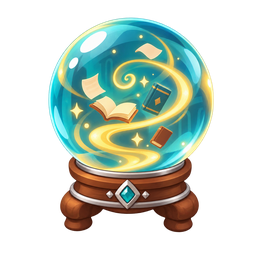
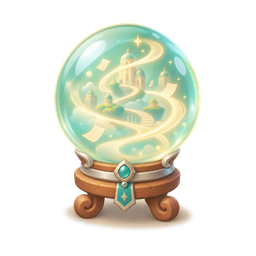
art: 风格v3.1软渐变休闲卡通——参考图拼图对比找出三病根（粗描边/硬赛璐璐/高饱和低明度），全类样张重生成并逐张对比验收

diff --git a/.agents/skills/mh-art/scripts/gen_asset.py b/.agents/skills/mh-art/scripts/gen_asset.py
@@ -37,76 +37,81 @@ ARCHIVE_ROOT = os.path.join(REVIEW_ROOT, "_archived")
 ASSETS_ROOT = os.path.join("docs", "design", "assets")
 
 # ---- 项目规格表（与 SKILL.md 保持同步）----
-# 风格 v3（2026-08-25，已拍板）：v1 暗黑厚涂（"过于硬核"）、v2/v2.1 温暖绘本水彩
-# （"还是不太行"）相继被否决。用户给出参照：Unity Asset Store「2D Characters -
-# Casual Monsters」(LAYERLAB)——扁平休闲卡通：干净矢量感圆胖轮廓、无描边、双色阶
-# 阴影（底色+一层暗部）、Q 版大头比例、中饱和青绿/奶油/暖棕系、无纹理无笔触。
-# 记忆殿堂主题与功能色板（卡牌类型/状态/意图/稀有度）保留，渲染语言从"绘本水彩"
-# 整体切到"扁平卡通"。基础 UI 色已随 v3 调亮（见 10-UI美术资源规格 §1.1 v1.3）。
-STYLE_BASE = ("flat cartoon casual mobile-game art, clean rounded vector-style shapes, cute chibi "
-              "proportions, flat color fills with simple two-tone shading (one soft darker shade "
-              "under each shape), no outlines, smooth clean matte finish, moderately saturated "
-              "cozy palette of teal, cream and warm brown with antique-gold accents, memory-palace "
-              "scholar library fantasy theme, friendly playful casual mood, "
-              "no painterly brushwork, no watercolor, no storybook wash, no texture noise, "
-              "no realistic rendering, no dark hardcore mood")
+# 风格 v3.1（2026-08-25，已拍板）：v1 暗黑厚涂、v2/v2.1 温暖绘本水彩相继被否决；
+# v3 扁平卡通首批样张被指"人物和卡牌不像"（参照 Unity Asset Store「2D Characters -
+# Casual Monsters」LAYERLAB）。与参考图逐项对比后修正三处病根：①v3 生成带粗深描边
+# →参考无描边，靠柔和暗部分界；②v3 硬边两色阶赛璐璐→参考是柔和渐变+浅椭圆投影
+# （软笔刷体积感，2-3 个明度）；③v3 饱和度高明度低→参考中饱和、高明度、清新淡彩。
+# 造型基准：2-2.5 头身、豆形身体、短粗四肢、极简面部。功能色板保留。
+STYLE_BASE = ("smooth soft-shaded 2D cartoon game art like premium casual mobile-game asset packs, "
+              "clean rounded shapes with NO outline strokes (edges separated by soft shading only), "
+              "soft airbrushed gradients giving gentle rounded volume, subtle ambient occlusion, "
+              "2-3 soft value steps per shape, soft elliptical drop shadow under objects, "
+              "fresh airy palette: pastel mint-teal, cream and light warm brown with muted gold accents, "
+              "medium saturation and light values, low contrast, memory-palace scholar fantasy theme, "
+              "cute friendly casual mood, "
+              "no outlines, no cel-shaded hard shadow edges, no watercolor, no painterly texture, "
+              "no gritty texture, no realistic rendering, no dark heavy colors, no hardcore mood")
 
 # 发布目录（实际应用区）：扁平无子目录——文件名自带类别前缀（prefix 字段），
 # 发布时按前缀校验命名规范；仅 docs 文档仓库适用，勿再按类型嵌套。
 SPECS = {
     "card": dict(size="1024x1536", transparent=False, resize=None,
                  review="cards", prefix="card_",
-                 style="vertical card illustration for a casual mobile game, one cute clear focal "
-                       "subject drawn large, simple flat background shapes, soft round shadow "
-                       "under the subject, no text, no watermark"),
+                 style="vertical card illustration presented like a game-asset showcase: one cute "
+                       "clear focal subject standing centered on a simple soft ground, plain "
+                       "pastel mint-cream backdrop with a soft elliptical shadow under the subject, "
+                       "minimal simple props, lots of clean empty space, no text, no watermark"),
     "cardback": dict(size="1024x1536", transparent=False, resize=None,
                      review="cardbacks", prefix="cardback_",
                      style="full playing-card back design filling the whole canvas, symmetric cute "
-                           "flat-cartoon emblem at center, chunky rounded border with simple "
-                           "geometric ornaments, flat color field with a very subtle radial glow "
-                           "behind the emblem, clean casual style, no text, no watermark"),
+                           "emblem at center drawn with smooth soft shading and no outlines, chunky "
+                           "rounded border with simple rounded ornaments, soft gradient color field, "
+                           "clean smooth finish, no text, no watermark"),
     "icon": dict(size="1024x1024", transparent=True, resize="256x256",
                  review="icons", prefix="icon_",
-                 style="flat casual game icon, centered composition, thick rounded chunky silhouette, "
-                       "instantly readable at small size, one accent color with a single soft "
-                       "darker shade, plain transparent background, no text, no watermark"),
+                 style="smooth soft-shaded casual game icon, single object only, centered, bold rounded "
+                       "silhouette instantly readable at small size, soft gradient shading, plain "
+                       "transparent background, no text, no watermark"),
     "relic": dict(size="1024x1024", transparent=True, resize="256x256",
                   review="relics", prefix="relic_",
-                  style="flat casual game icon of a small magical artifact, centered, cute stylized "
-                        "prop with thick rounded chunky silhouette, one soft darker shade for "
-                        "depth, plain transparent background, no text, no watermark"),
+                  style="smooth soft-shaded casual game icon of a single small magical artifact, "
+                        "centered, cute stylized prop with bold rounded silhouette, soft gradient "
+                        "shading, no outlines, plain transparent background, no text, no watermark"),
     "potion": dict(size="1024x1024", transparent=True, resize="256x256",
                    review="potions", prefix="potion_",
-                   style="flat casual game icon of a cute alchemy potion bottle, centered, thick "
-                         "rounded chunky silhouette, glossy flat liquid color, plain transparent "
-                         "background, no text, no watermark"),
+                   style="smooth soft-shaded casual game icon of a single cute alchemy potion bottle, "
+                         "centered, bold rounded silhouette, soft glossy gradient shading, no "
+                         "outlines, plain transparent background, no text, no watermark"),
     "node": dict(size="1024x1024", transparent=True, resize="256x256",
                  review="map-nodes", prefix="node_",
-                    style="flat casual map node emblem, centered, thick rounded chunky shape, "
-                          "bold readable silhouette, plain transparent background, "
-                          "no text, no watermark"),
+                    style="smooth soft-shaded casual map node emblem, single centered object, bold "
+                          "rounded shape, soft gradient shading, no outlines, plain transparent "
+                          "background, no text, no watermark"),
     "enemy": dict(size="1024x1024", transparent=True, resize=None,
                   review="enemies", prefix="enemy_",
-                  style="single cute casual-cartoon fantasy monster, full body, centered, facing "
-                        "viewer, big-head chibi proportions, chunky rounded silhouette, friendly "
-                        "mischievous expression, flat two-tone shading, soft round shadow under "
-                        "feet, transparent background, no text, no watermark"),
+                  style="single cute casual-cartoon fantasy monster like a premium asset-pack "
+                        "showcase render, full body, centered, facing viewer, 2 to 2.5 head-heights "
+                        "tall, bean-shaped rounded body, short stubby limbs, very simple face, "
+                        "smooth soft-shaded volume with NO outlines, soft elliptical shadow under "
+                        "feet, plain transparent background, no text, no watermark"),
     "portrait": dict(size="1024x1536", transparent=True, resize=None,
                      review="portraits", prefix="portrait_",
-                     style="full body cute casual-cartoon character, centered, facing viewer, "
-                           "big-head chibi proportions, friendly confident pose, chunky rounded "
-                           "silhouette, flat two-tone shading, transparent background, "
+                     style="full body cute casual-cartoon character like a premium asset-pack "
+                           "showcase render, centered, facing viewer, 2 to 2.5 head-heights tall, "
+                           "bean-shaped rounded body, short stubby limbs, very simple face, smooth "
+                           "soft-shaded volume with NO outlines, transparent background, "
                            "no text, no watermark"),
     "background": dict(size="2048x1152", transparent=False, resize="1920x1080",
                        review="backgrounds", prefix="bg_",
-                       style="wide flat cartoon scene for a casual game, simple stylized "
-                             "environment built from rounded shapes, layered flat colors for "
-                             "gentle depth, empty center area for UI, no characters, no text, "
-                             "no watermark"),
+                       style="wide soft-shaded cartoon scene for a casual game, simple stylized "
+                             "environment built from big rounded shapes with smooth soft gradients, "
+                             "fresh airy palette, gentle depth, empty center area for UI, "
+                             "no characters, no text, no watermark"),
     "texture": dict(size="1024x1024", transparent=False, resize="256x256",
                     review="textures", prefix="texture_",
-                    style="seamless tileable flat cartoon texture, evenly lit flat colors, "
-                          "no vignette, no shadows at edges, no text, no watermark"),
+                    style="seamless tileable soft cartoon texture, evenly lit, no vignette, "
+                          "no shadows at edges, no text, no watermark"),
 }
 
 

diff --git a/.agents/skills/mh-art/SKILL.md b/.agents/skills/mh-art/SKILL.md
@@ -50,16 +50,16 @@ description: 《记忆勇者》设计文档仓库专属 AI 生图——按 docs/
 
 源自 [09-UI设计规范 §1](../../../docs/design/09-UI设计规范.md)「记忆殿堂」视觉定位：记忆殿堂主题 + 古金点缀。所有 prompt 以此为底，保证新旧资产同风格。
 
-> **风格 v3（2026-08-25）**：v1 暗黑厚涂（"过于硬核"）与 v2/v2.1 温暖绘本水彩（"还是不太行"）相继被否决。用户给出参照：Unity Asset Store「2D Characters - Casual Monsters」(LAYERLAB)。v3 定调**扁平休闲卡通**——干净矢量感圆胖轮廓、无描边、双色阶阴影（底色+一层软暗部）、Q 版大头比例、中饱和青绿/奶油/暖棕系、无纹理无笔触。主题与卡牌类型/状态/意图/稀有度等功能色板不变，只换渲染语言。样张已拍板（2026-08-25），09 §1 视觉定位与 10 §1.1 基础 UI 色已同步改写为明快奶油纸/暖金木底（新增辅助强调静谧青 #7FB5AC）。
+> **风格 v3.1（2026-08-25）**：v1 暗黑厚涂、v2/v2.1 温暖绘本水彩相继被否决；v3 扁平卡通首批样张被指"风格还是不太像，尤其是人物和卡牌"（参照 Unity Asset Store「2D Characters - Casual Monsters」LAYERLAB）。将参考图与生成图**拼图逐项对比**后修正三处病根：①v3 生成带 3-6px 粗深描边 → 参考无描边，靠柔和暗部分界；②v3 硬边两色阶赛璐璐 → 参考是柔和渐变+浅椭圆投影（软笔刷体积感，2-3 个明度）；③v3 饱和度高明度低、浓郁厚重 → 参考中饱和、高明度、清新淡彩。造型基准：2-2.5 头身、豆形身体、短粗四肢、极简面部；卡面走"素材展示"构图（纯色淡青底+简单地面+柔和椭圆投影），不画叙事场景。功能色板保留；09/10 文档的明快 UI 色不受影响。
 
-- **全局基线（EN，拼在最前）**：`flat cartoon casual mobile-game art, clean rounded vector-style shapes, cute chibi proportions, flat color fills with simple two-tone shading (one soft darker shade under each shape), no outlines, smooth clean matte finish, moderately saturated cozy palette of teal, cream and warm brown with antique-gold accents, memory-palace scholar library fantasy theme, friendly playful casual mood, no painterly brushwork, no watercolor, no storybook wash, no texture noise, no realistic rendering, no dark hardcore mood`
-- **卡面**：`vertical card illustration for a casual mobile game, one cute clear focal subject drawn large, simple flat background shapes, soft round shadow under the subject, no text, no watermark`
-- **卡背**：`full playing-card back design filling the whole canvas, symmetric cute flat-cartoon emblem at center, chunky rounded border with simple geometric ornaments, flat color field with a very subtle radial glow behind the emblem, clean casual style, no text, no watermark`（desc 里必须给类型色 hex，见 asset-specs 色板）
-- **图标（icon/relic/potion/node）**：`flat casual game icon, centered composition, thick rounded chunky silhouette, instantly readable at small size, one accent color with a single soft darker shade, plain transparent background, no text, no watermark`
-- **敌人**：`single cute casual-cartoon fantasy monster, full body, centered, facing viewer, big-head chibi proportions, chunky rounded silhouette, friendly mischievous expression, flat two-tone shading, soft round shadow under feet, transparent background, no text, no watermark`
-- **角色**：`full body cute casual-cartoon character, centered, facing viewer, big-head chibi proportions, friendly confident pose, chunky rounded silhouette, flat two-tone shading, transparent background, no text, no watermark`
-- **背景**：`wide flat cartoon scene for a casual game, simple stylized environment built from rounded shapes, layered flat colors for gentle depth, empty center area for UI, no characters, no text, no watermark`
-- **纹理**：`seamless tileable flat cartoon texture, evenly lit flat colors, no vignette, no shadows at edges, no text`
+- **全局基线（EN，拼在最前）**：`smooth soft-shaded 2D cartoon game art like premium casual mobile-game asset packs, clean rounded shapes with NO outline strokes (edges separated by soft shading only), soft airbrushed gradients giving gentle rounded volume, subtle ambient occlusion, 2-3 soft value steps per shape, soft elliptical drop shadow under objects, fresh airy palette: pastel mint-teal, cream and light warm brown with muted gold accents, medium saturation and light values, low contrast, memory-palace scholar fantasy theme, cute friendly casual mood, no outlines, no cel-shaded hard shadow edges, no watercolor, no painterly texture, no gritty texture, no realistic rendering, no dark heavy colors, no hardcore mood`
+- **卡面**：`vertical card illustration presented like a game-asset showcase: one cute clear focal subject standing centered on a simple soft ground, plain pastel mint-cream backdrop with a soft elliptical shadow under the subject, minimal simple props, lots of clean empty space, no text, no watermark`
+- **卡背**：`full playing-card back design filling the whole canvas, symmetric cute emblem at center drawn with smooth soft shading and no outlines, chunky rounded border with simple rounded ornaments, soft gradient color field, clean smooth finish, no text, no watermark`（desc 里必须给类型色 hex，见 asset-specs 色板）
+- **图标（icon/relic/potion/node）**：`smooth soft-shaded casual game icon, single object only, centered, bold rounded silhouette instantly readable at small size, soft gradient shading, plain transparent background, no text, no watermark`
+- **敌人**：`single cute casual-cartoon fantasy monster like a premium asset-pack showcase render, full body, centered, facing viewer, 2 to 2.5 head-heights tall, bean-shaped rounded body, short stubby limbs, very simple face, smooth soft-shaded volume with NO outlines, soft elliptical shadow under feet, plain transparent background, no text, no watermark`
+- **角色**：`full body cute casual-cartoon character like a premium asset-pack showcase render, centered, facing viewer, 2 to 2.5 head-heights tall, bean-shaped rounded body, short stubby limbs, very simple face, smooth soft-shaded volume with NO outlines, transparent background, no text, no watermark`
+- **背景**：`wide soft-shaded cartoon scene for a casual game, simple stylized environment built from big rounded shapes with smooth soft gradients, fresh airy palette, gentle depth, empty center area for UI, no characters, no text, no watermark`
+- **纹理**：`seamless tileable soft cartoon texture, evenly lit, no vignette, no shadows at edges, no text`
 
 中文 prompt 同样可用，但保持上述关键词的英文版拼入更稳。
 
